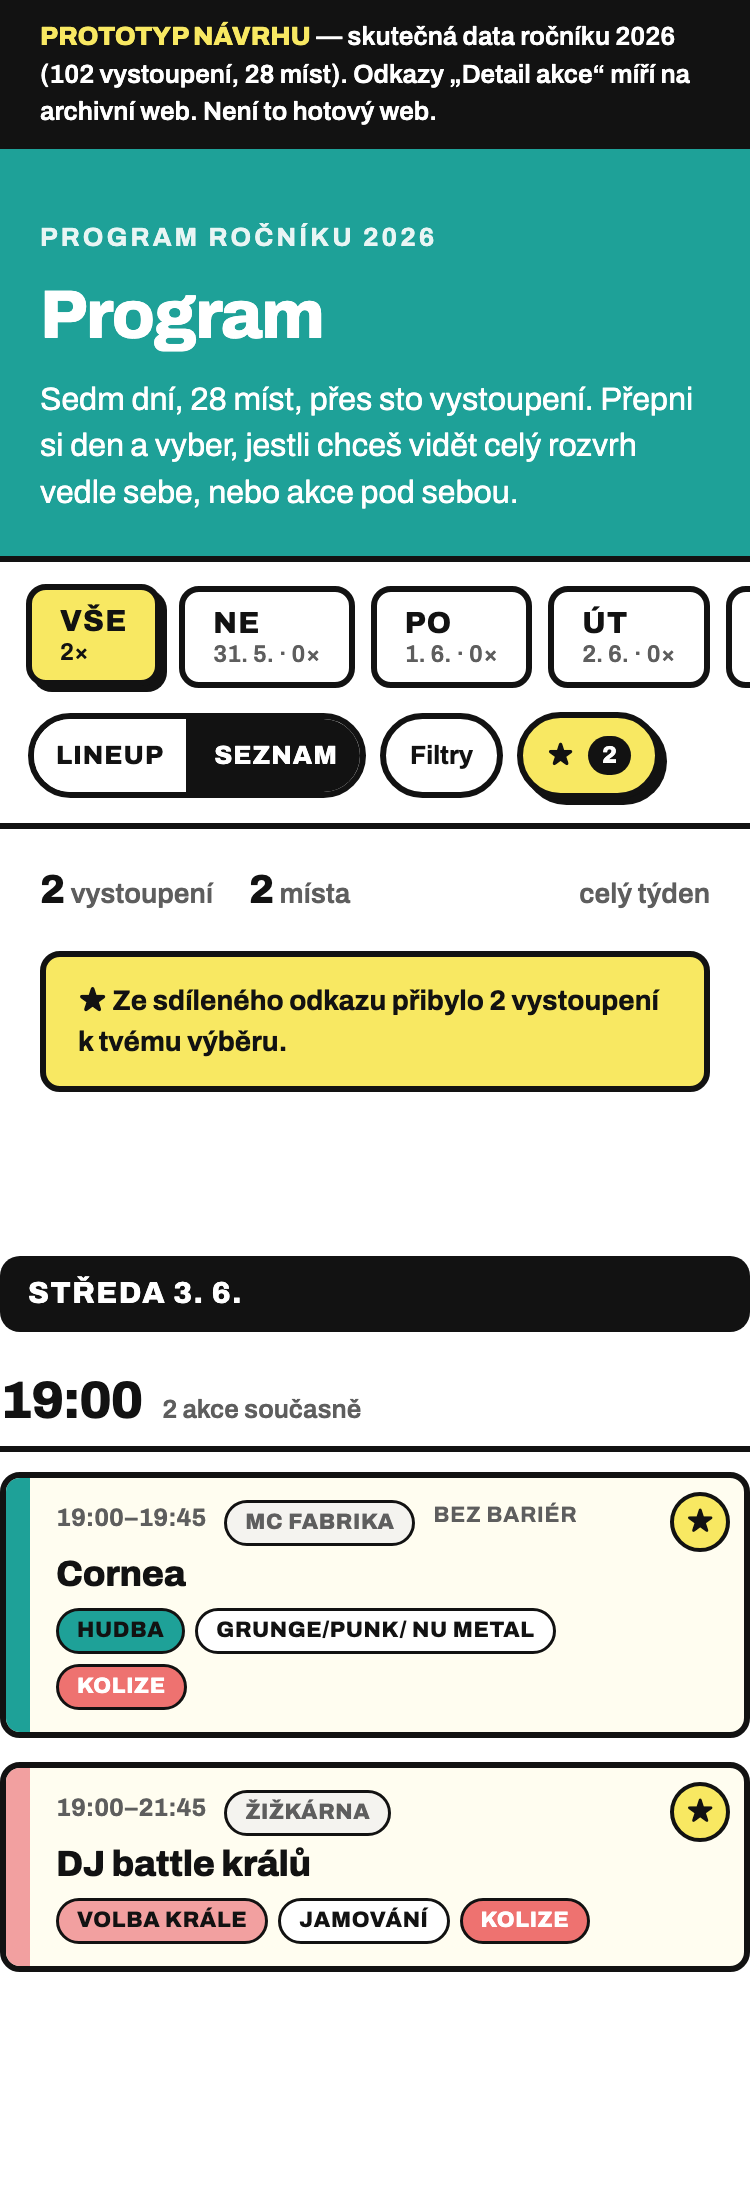
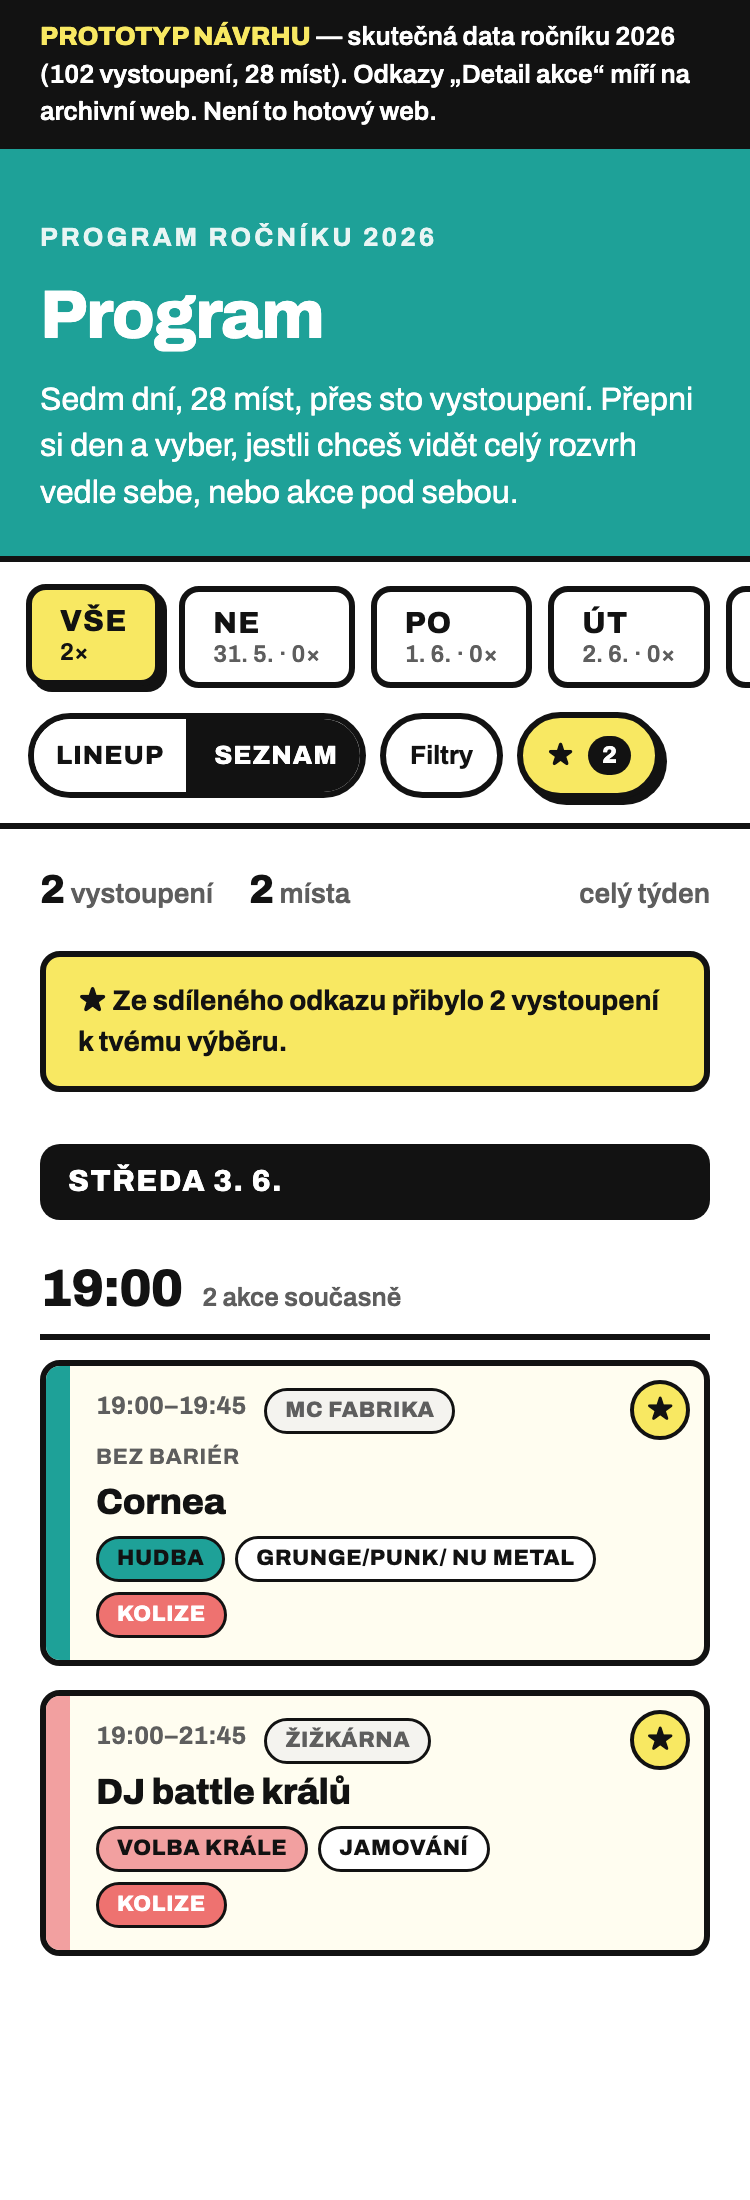
fix: tydenni vypis vypadaval z odsazeni stranky
Podminka pro zavreni slotu koukala na promennou html, ktera je po inicializaci neprazdna. U prvniho dne se proto vypsalo zaviraci znacky navic a predcasne zavrely obal .bm-seznam.

Changed region(s): [[0.0, 0.4945, 1.0, 0.8964]]

diff --git a/docs/wordpress/11-lineup-navrh/prototyp.html b/docs/wordpress/11-lineup-navrh/prototyp.html
@@ -1111,11 +1111,15 @@ a { color: var(--bm-hlavni-tmav); }
     var html = '<div class="bm-seznam">', poslDen = '', poslCas = '';
     akce.forEach(function (a) {
       if (stav.den === 'vse' && a.den !== poslDen) {
-        poslDen = a.den; poslCas = '';
+        /* Zavřít se musí jen slot, který je opravdu otevřený. Podmínka
+           dřív koukala na `html`, jenže to je po inicializaci neprázdné,
+           takže se u prvního dne vypsalo </div></section> navíc a předčasně
+           zavřelo obal .bm-seznam — celý týdenní výpis pak vypadl z odsazení. */
+        if (poslCas) { html += '</div></section>'; }
+        poslDen = a.den;
+        poslCas = '';
         var d = popisDne(a.den);
-        html += (html ? '</div></section>' : '') +
-          '<div class="bm-slot__den">' + d.nazev + ' ' + d.datum + '</div>';
-        html = html.replace('</div></section><div class="bm-slot__den">', '</div></section><div class="bm-slot__den">');
+        html += '<div class="bm-slot__den">' + d.nazev + ' ' + d.datum + '</div>';
       }
       var cas = hhmm(a.zac);
       if (cas !== poslCas) {
